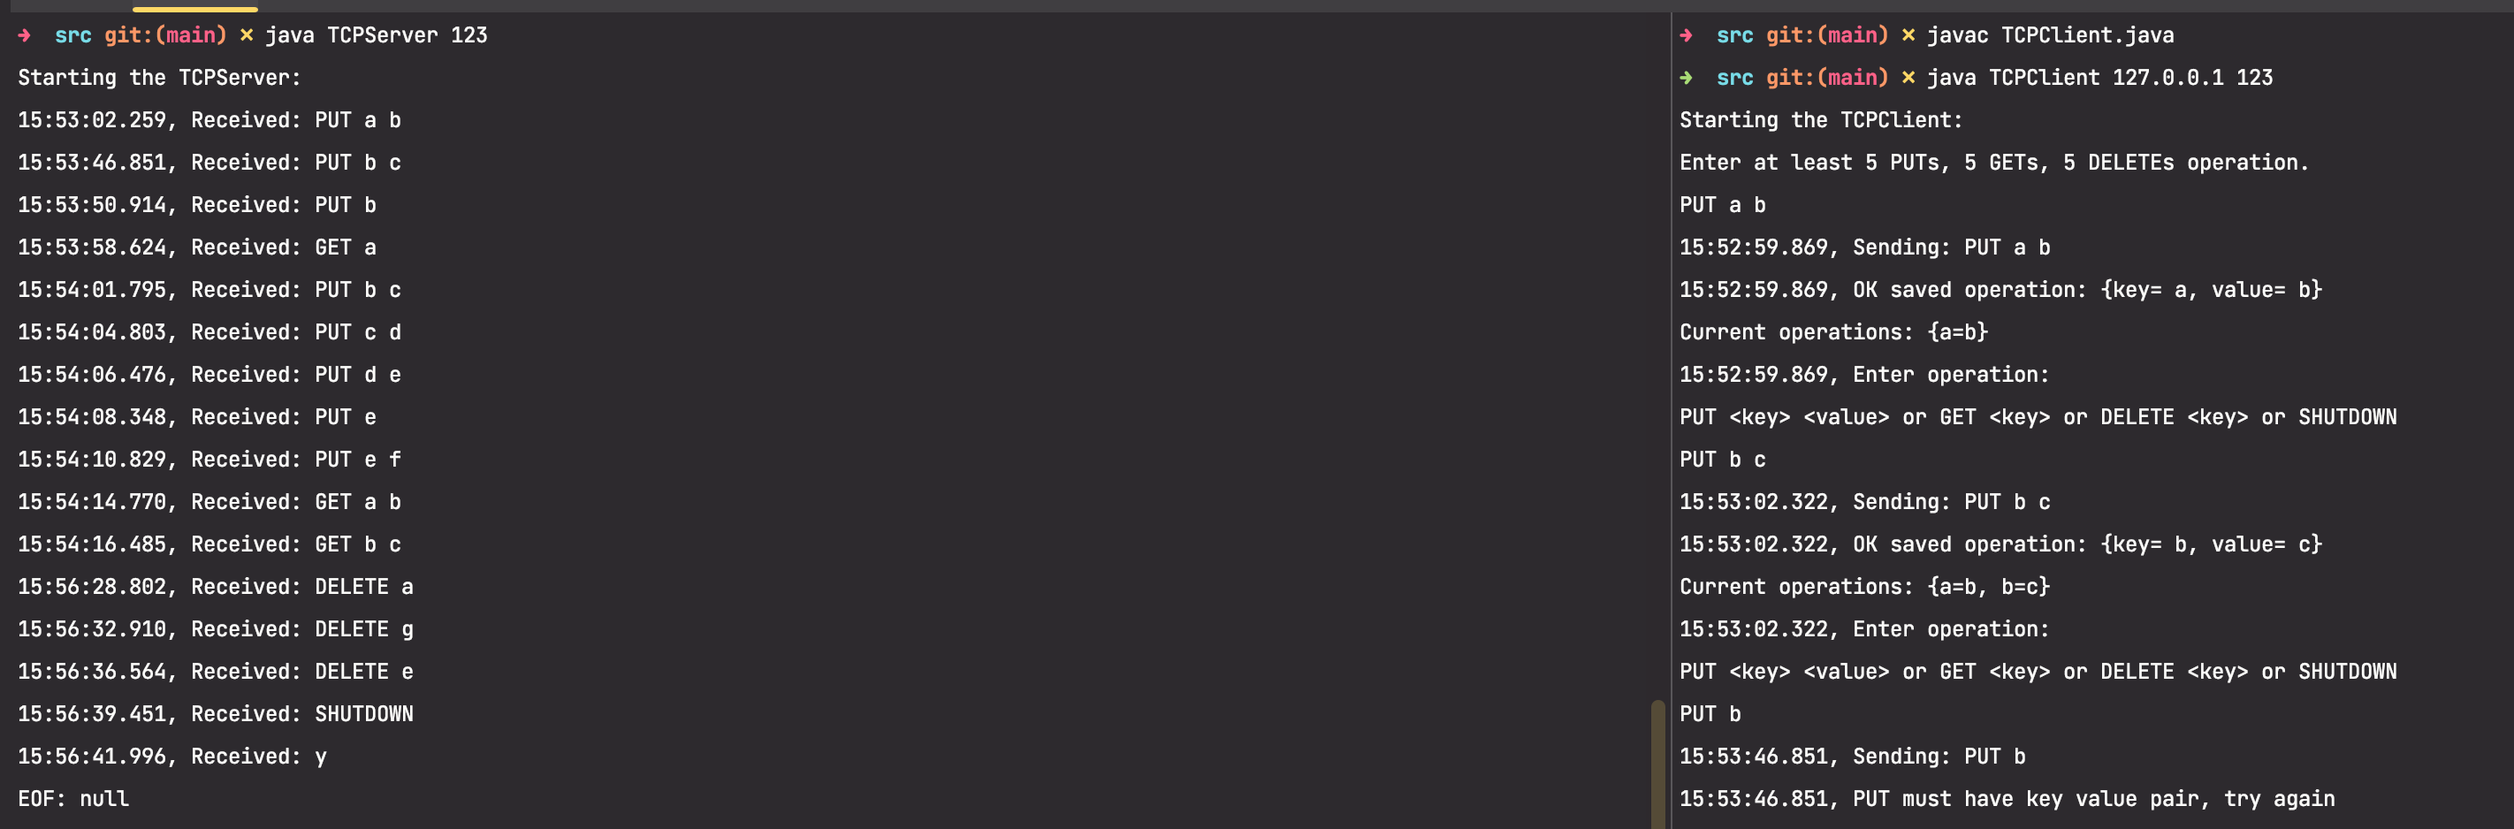
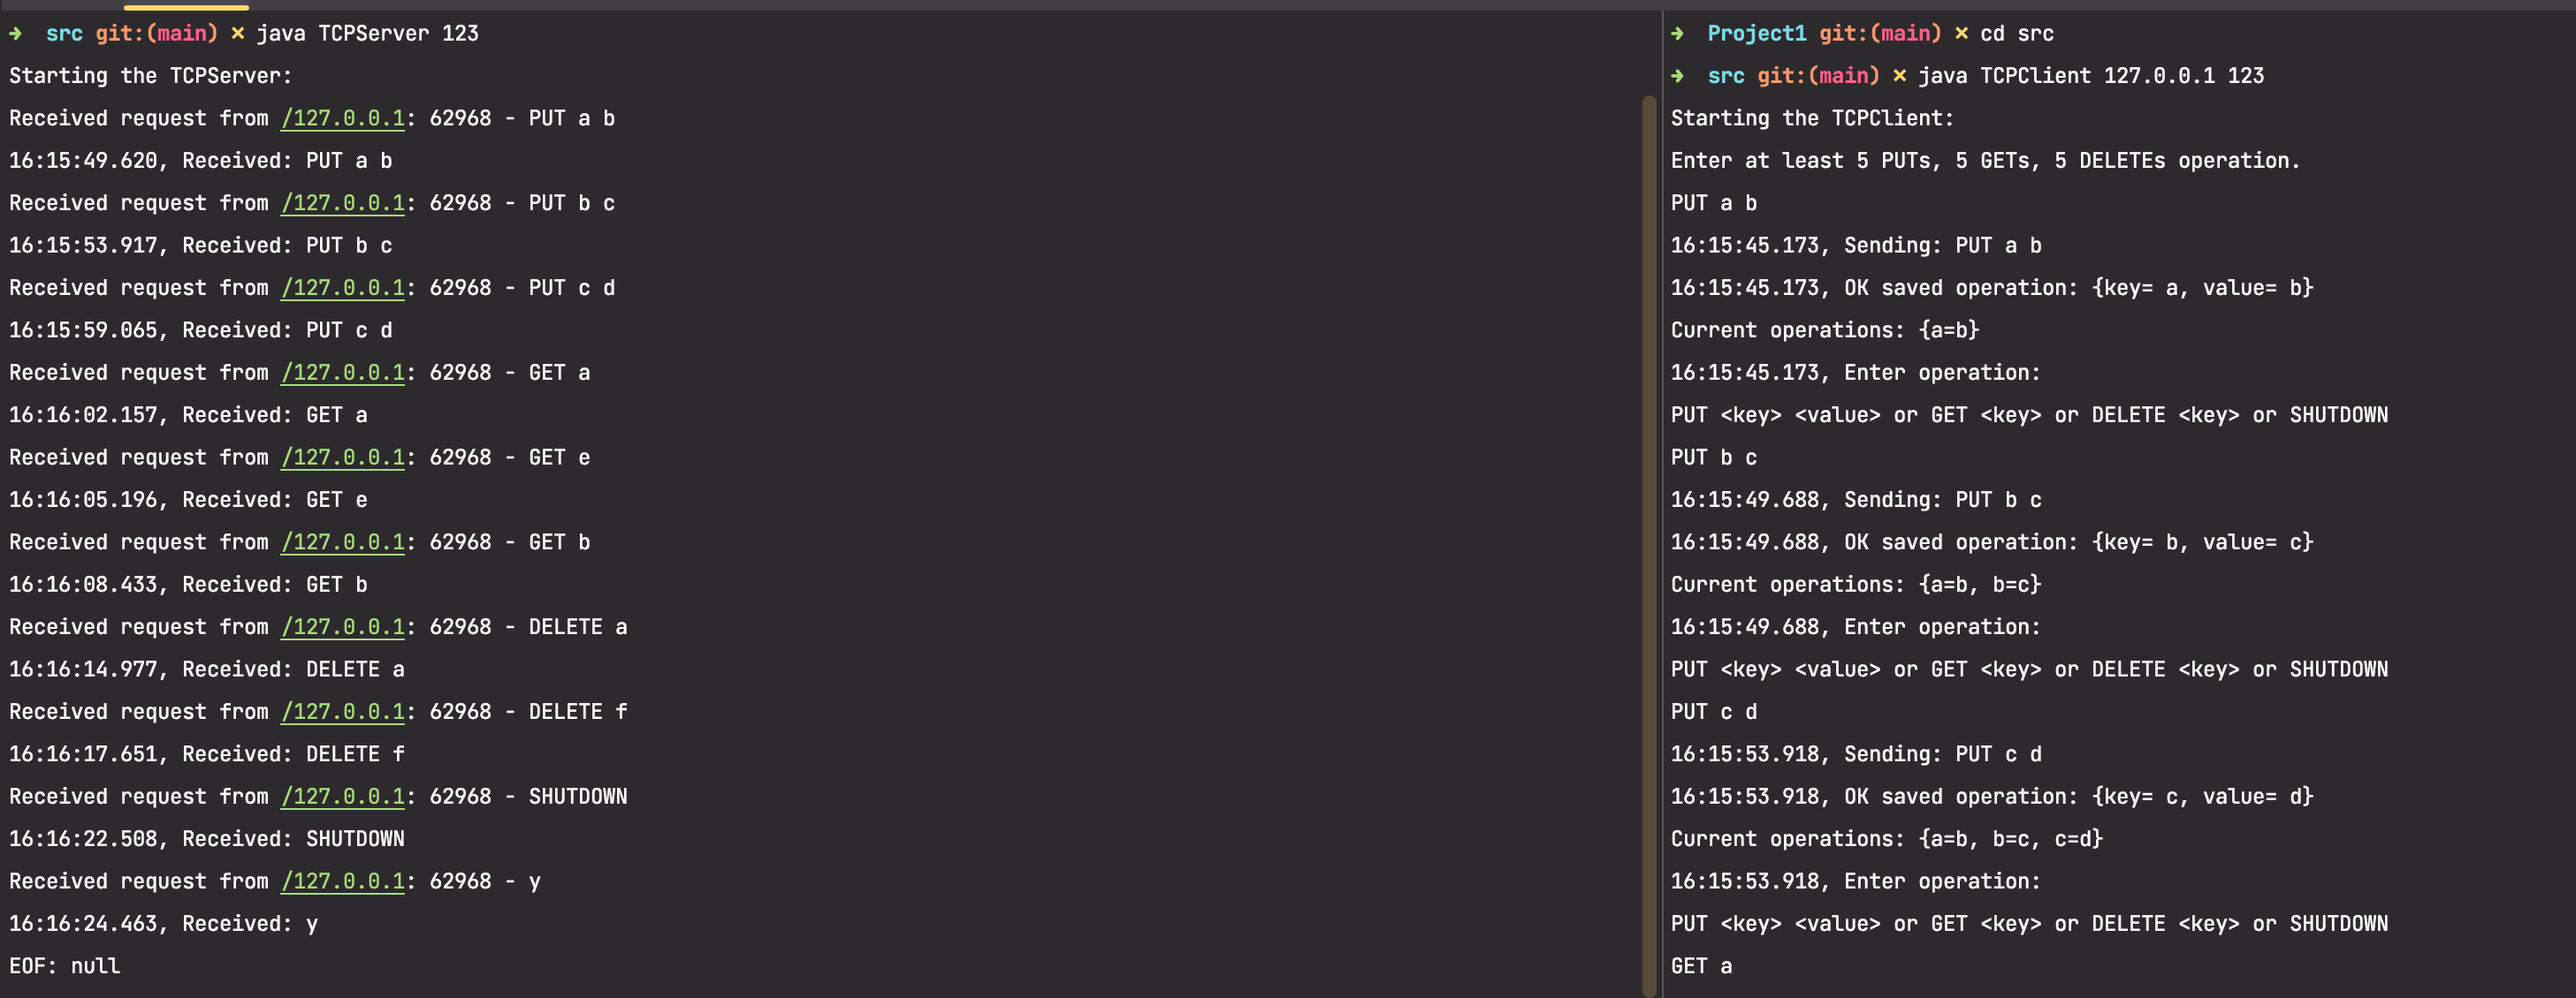
edited log message

Changed region(s): [[0.6188, 0.0309, 0.9592, 1.0], [0.0, 0.0, 0.2475, 0.9893]]

diff --git a/src/UDPServer.java b/src/UDPServer.java
@@ -39,7 +39,7 @@ public class UDPServer {
                 String timestamp = Utils.getCurrentTimestamp();
 
                 // Log received request
-                logRequest(request, userInput);
+                Utils.logRequest(request.getAddress(), request.getPort(), userInput);
 
                 // print timestamped message to standard output
                 System.out.println(timestamp + ", Received: " + userInput);
@@ -123,13 +123,5 @@ public class UDPServer {
         } catch (IOException e) {
             System.out.println("IO: " + e.getMessage());
         }
-    }
-
-    // Log received request with source InetAddress and port
-    private static void logRequest(DatagramPacket request, String requestMessage) {
-        InetAddress clientAddress = request.getAddress();
-        int clientPort = request.getPort();
-        String logMessage = "Received request from " + clientAddress + ": " + clientPort + " - " + requestMessage;
-        System.out.println(logMessage);
     }
 }

diff --git a/src/Utils.java b/src/Utils.java
@@ -1,3 +1,4 @@
+import java.net.InetAddress;
 import java.text.SimpleDateFormat;
 import java.util.Date;
 
@@ -19,5 +20,11 @@ public class Utils {
             count = Integer.parseInt(response.substring(0, countIndex));
         }
         return count;
+    }
+
+    // Handle Log Request
+    public static void logRequest(InetAddress clientAddress, int clientPort, String requestMessage) {
+        String logMessage = "Received request from " + clientAddress + ": " + clientPort + " - " + requestMessage;
+        System.out.println(logMessage);
     }
 }

diff --git a/src/TCPServer.java b/src/TCPServer.java
@@ -59,6 +59,9 @@ public void run() {
             // Get current timestamp in milliseconds
             String timestamp = Utils.getCurrentTimestamp();
 
+            // Log received request
+            Utils.logRequest(clientSocket.getInetAddress(), clientSocket.getPort(), userInput);
+
             // print timestamped message to standard output
             System.out.println(timestamp + ", Received: " + userInput);
             if (inputList.get(0).equals("SHUTDOWN")) {
